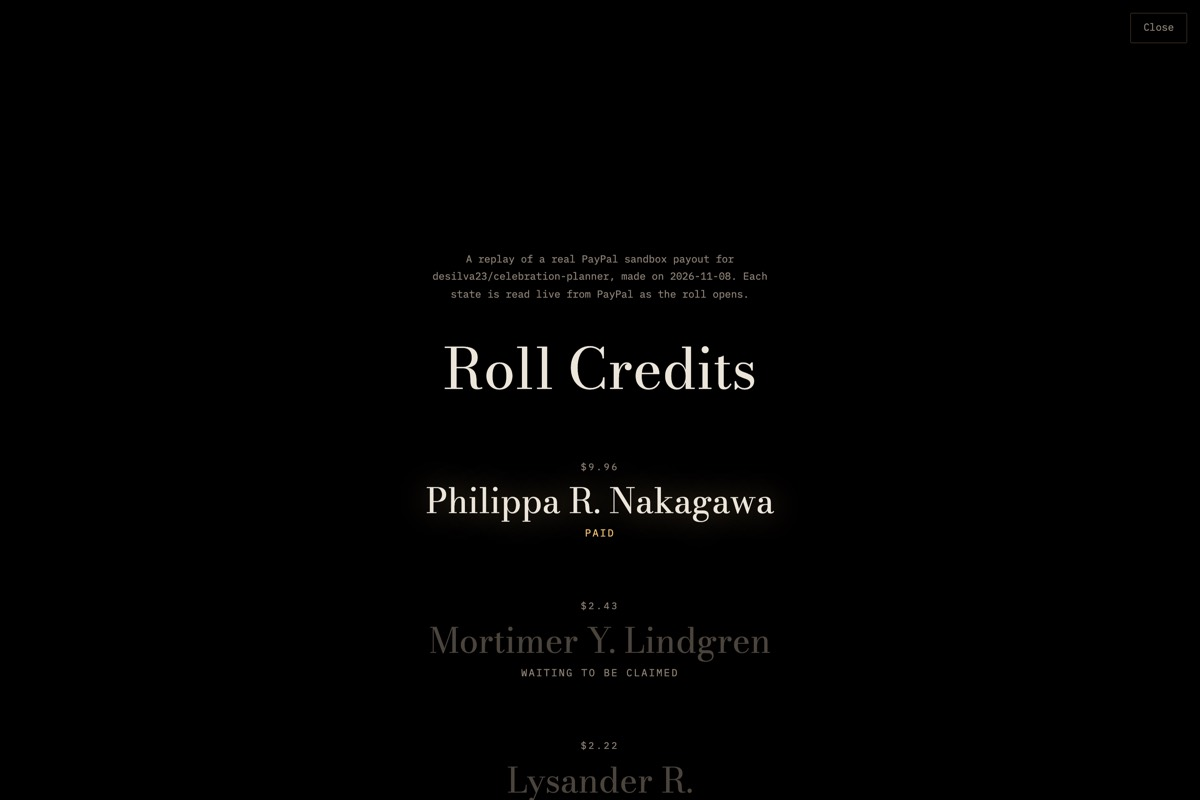
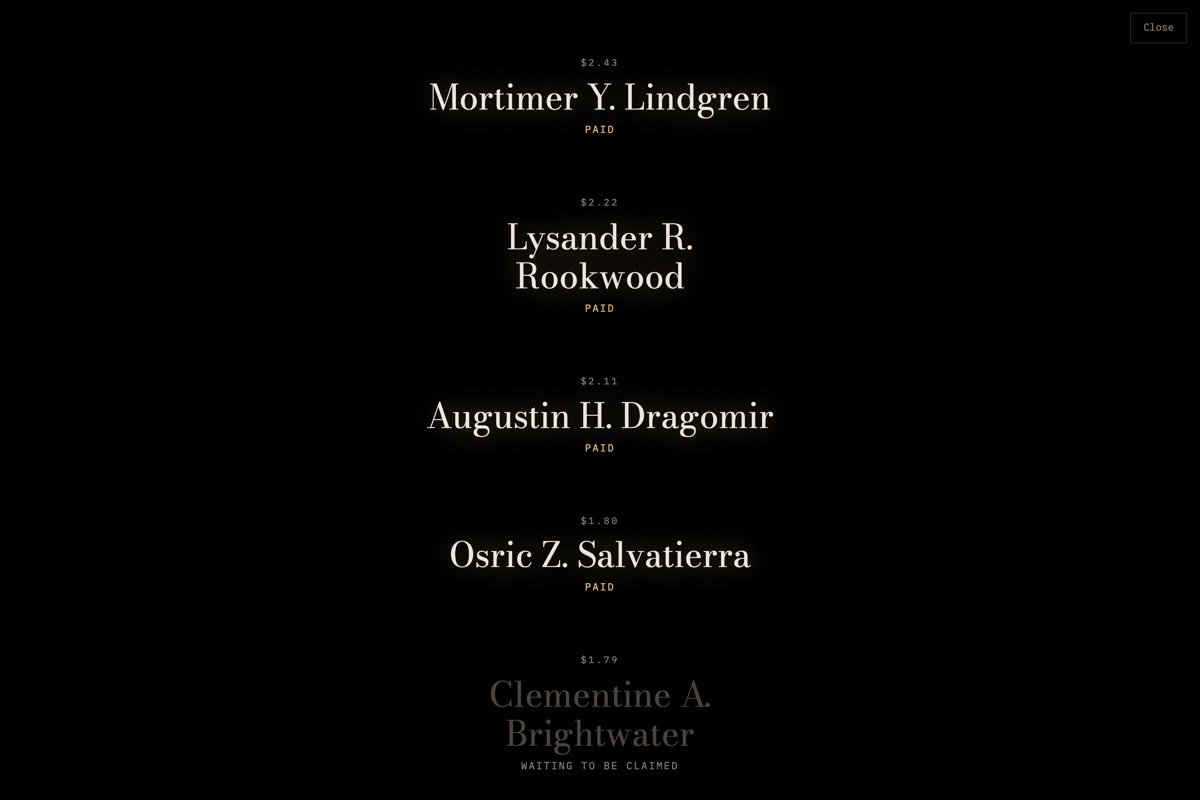
Light up five names at the end of the roll, not one
Only one real sandbox account could receive money, so a run ended with
one name lit and eight waiting to be claimed. The roll is the moment the
demo builds to, and one lit name in nine reads like a payment that
mostly failed.

Payouts now go to five sandbox accounts, one each for the largest
amounts. Everyone else is still sent to an example.com address and comes
back UNCLAIMED, so a run shows both of PayPal's outcomes, and every
address stays under example.com, so nothing can reach a real inbox. The
test now checks exactly that. The undocumented PAYPAL_SANDBOX_RECEIVER
override is gone; the README says where to put your own sandbox accounts.

The replay was re-recorded from a fresh sandbox payout of the live
site's plan: batch JTBMQTK24RWA6, $25.00 to 9 people, 5 SUCCESS and 4
UNCLAIMED. Names and amounts are unchanged. The README's roll
screenshot is retaken to match.

diff --git a/src/lib/server/payouts.ts b/src/lib/server/payouts.ts
@@ -23,13 +23,20 @@ export interface PayoutRun {
 }
 
 /**
- * Only this one real sandbox account can receive money. Everyone else is sent
- * to a `@example.com` address, which PayPal accepts and then reports as
- * UNCLAIMED. That is both the honest demonstration — almost no maintainer has
- * a payment route today — and the hard guarantee that nothing this project
- * sends can reach a real person's inbox.
+ * The sandbox accounts that can receive money, standing in for maintainers who
+ * have PayPal. Everyone else is sent to a `@example.com` address, which PayPal
+ * accepts and then reports as UNCLAIMED. So a run shows both of PayPal's
+ * outcomes — almost no maintainer has a payment route today — and every
+ * address is under `example.com`, the hard guarantee that nothing this
+ * project sends can reach a real person's inbox.
  */
-const CLAIMED_RECEIVER = process.env.PAYPAL_SANDBOX_RECEIVER ?? "sb-io9zf53636210@personal.example.com";
+const SANDBOX_RECEIVERS = [
+  "sb-io9zf53636210@personal.example.com",
+  "sb-zyv47x53813327@personal.example.com",
+  "sb-eu8xe53813324@personal.example.com",
+  "sb-afsyq53813320@personal.example.com",
+  "sb-5qva853813301@personal.example.com",
+] as const;
 
 /** One run per order, so retrying a failed request cannot pay twice. */
 function batchIdFor(orderId: string): string {
@@ -50,10 +57,11 @@ export async function sendPayouts(orderId: string, allocations: readonly Allocat
     // Payouts spells this `currency`. Orders v2 spells the same thing
     // `currency_code`, and sending that here fails with "may not be null".
     amount: { value: toAmountValue(a.cents), currency: "USD" },
-    // One sandbox account stands in for a maintainer who has PayPal. The rest
-    // go to addresses with no PayPal account, so PayPal holds their money for
-    // them to claim and returns it to the sender after 30 days.
-    receiver: index === 0 ? CLAIMED_RECEIVER : `unclaimed-${a.id}@example.com`,
+    // The split lists the largest amounts first, so those reach the sandbox
+    // accounts, one each. The rest go to addresses with no PayPal account, so
+    // PayPal holds their money for them to claim and returns it to the sender
+    // after 30 days.
+    receiver: SANDBOX_RECEIVERS[index] ?? `unclaimed-${a.id}@example.com`,
     note: "Thank you for the code this project is built on.",
     sender_item_id: a.id,
   }));

diff --git a/src/lib/server/payouts.test.ts b/src/lib/server/payouts.test.ts
@@ -40,12 +40,17 @@ describe("sendPayouts", () => {
     expect(sentBody().items[0]?.amount).toEqual({ value: "8.19", currency: "USD" });
   });
 
-  it("lets only the one claimed sandbox account receive; everyone else resolves to example.com", async () => {
+  it("pays the five largest amounts into sandbox accounts, one each, and everyone else at example.com", async () => {
     call.mockResolvedValueOnce(created);
-    await sendPayouts("ORDER1", [allocation("a", 500), allocation("b", 300), allocation("c", 200)]);
+    const largestFirst = ["a", "b", "c", "d", "e", "f", "g"].map((id, rank) => allocation(id, 700 - rank * 100));
+    await sendPayouts("ORDER1", largestFirst);
     const receivers = sentBody().items.map((item) => item.receiver);
-    expect(receivers[0]).toMatch(/@personal\.example\.com$/);
-    expect(receivers.slice(1)).toEqual(["unclaimed-b@example.com", "unclaimed-c@example.com"]);
+    // Every address is under example.com, so nothing sent can reach a real inbox.
+    for (const receiver of receivers) expect(receiver).toMatch(/[@.]example\.com$/);
+    const sandbox = receivers.slice(0, 5);
+    for (const receiver of sandbox) expect(receiver).toMatch(/@personal\.example\.com$/);
+    expect(new Set(sandbox).size).toBe(5);
+    expect(receivers.slice(5)).toEqual(["unclaimed-f@example.com", "unclaimed-g@example.com"]);
   });
 
   it("derives the batch id from the order, so a retry is refused by PayPal instead of paying twice", async () => {

diff --git a/README.md b/README.md
@@ -14,7 +14,7 @@ a film-credits roll where each name lights up as PayPal confirms the money arriv
 
 Built for the PayPal AI Hackathon 2026.
 
-![The credits roll for a real sandbox payout: one maintainer's generated name lit as paid, the next waiting to be claimed](docs/screenshots/roll.jpg)
+![The credits roll for a real sandbox payout: four maintainers' generated names lit as paid, the next waiting to be claimed](docs/screenshots/roll.jpg)
 
 ---
 
@@ -83,14 +83,14 @@ official MCP client SDK. See [`src/app/api/mcp/route.ts`](src/app/api/mcp/route.
 
 ## What is real, and what is not
 
-|              |                                                                                                                     |
-| ------------ | ------------------------------------------------------------------------------------------------------------------- |
-| **Real**     | Every PayPal call. Orders, capture, Payouts, signature-verified webhooks — all against the PayPal **sandbox**       |
-| **Real**     | The code reading. Live GitHub and npm data, no fixtures                                                             |
-| **Real**     | The AI judgements. Groq, made when a codebase is first read and remembered for a week                               |
-| **Not real** | The money. Sandbox only. The app refuses to talk to live PayPal — the base URL is hard-coded                        |
-| **Not real** | The names. Every maintainer appears under a generated film-credit name                                              |
-| **Not real** | The recipients. One sandbox test address can receive; all others resolve to `example.com` and come back `UNCLAIMED` |
+|              |                                                                                                                                            |
+| ------------ | ------------------------------------------------------------------------------------------------------------------------------------------ |
+| **Real**     | Every PayPal call. Orders, capture, Payouts, signature-verified webhooks — all against the PayPal **sandbox**                              |
+| **Real**     | The code reading. Live GitHub and npm data, no fixtures                                                                                    |
+| **Real**     | The AI judgements. Groq, made when a codebase is first read and remembered for a week                                                      |
+| **Not real** | The money. Sandbox only. The app refuses to talk to live PayPal — the base URL is hard-coded                                               |
+| **Not real** | The names. Every maintainer appears under a generated film-credit name                                                                     |
+| **Not real** | The recipients. Five sandbox test accounts receive the largest amounts; everyone else resolves to `example.com` and comes back `UNCLAIMED` |
 
 ### Why nobody is named
 
@@ -148,7 +148,9 @@ npm run dev
 
 Create a **United States** sandbox business account and a sandbox personal account at
 [developer.paypal.com](https://developer.paypal.com/), make an app against the business account with **Payouts**
-enabled, and copy its client ID and secret into `.env.local`.
+enabled, and copy its client ID and secret into `.env.local`. Payouts go to the five sandbox accounts listed in
+[`src/lib/server/payouts.ts`](src/lib/server/payouts.ts); put personal accounts from your own sandbox there to see
+them marked paid.
 
 **It works without an AI key.** With `GROQ_API_KEY` unset, the agent is skipped and the measured weighting decides on
 its own — the whole flow still runs end to end.
